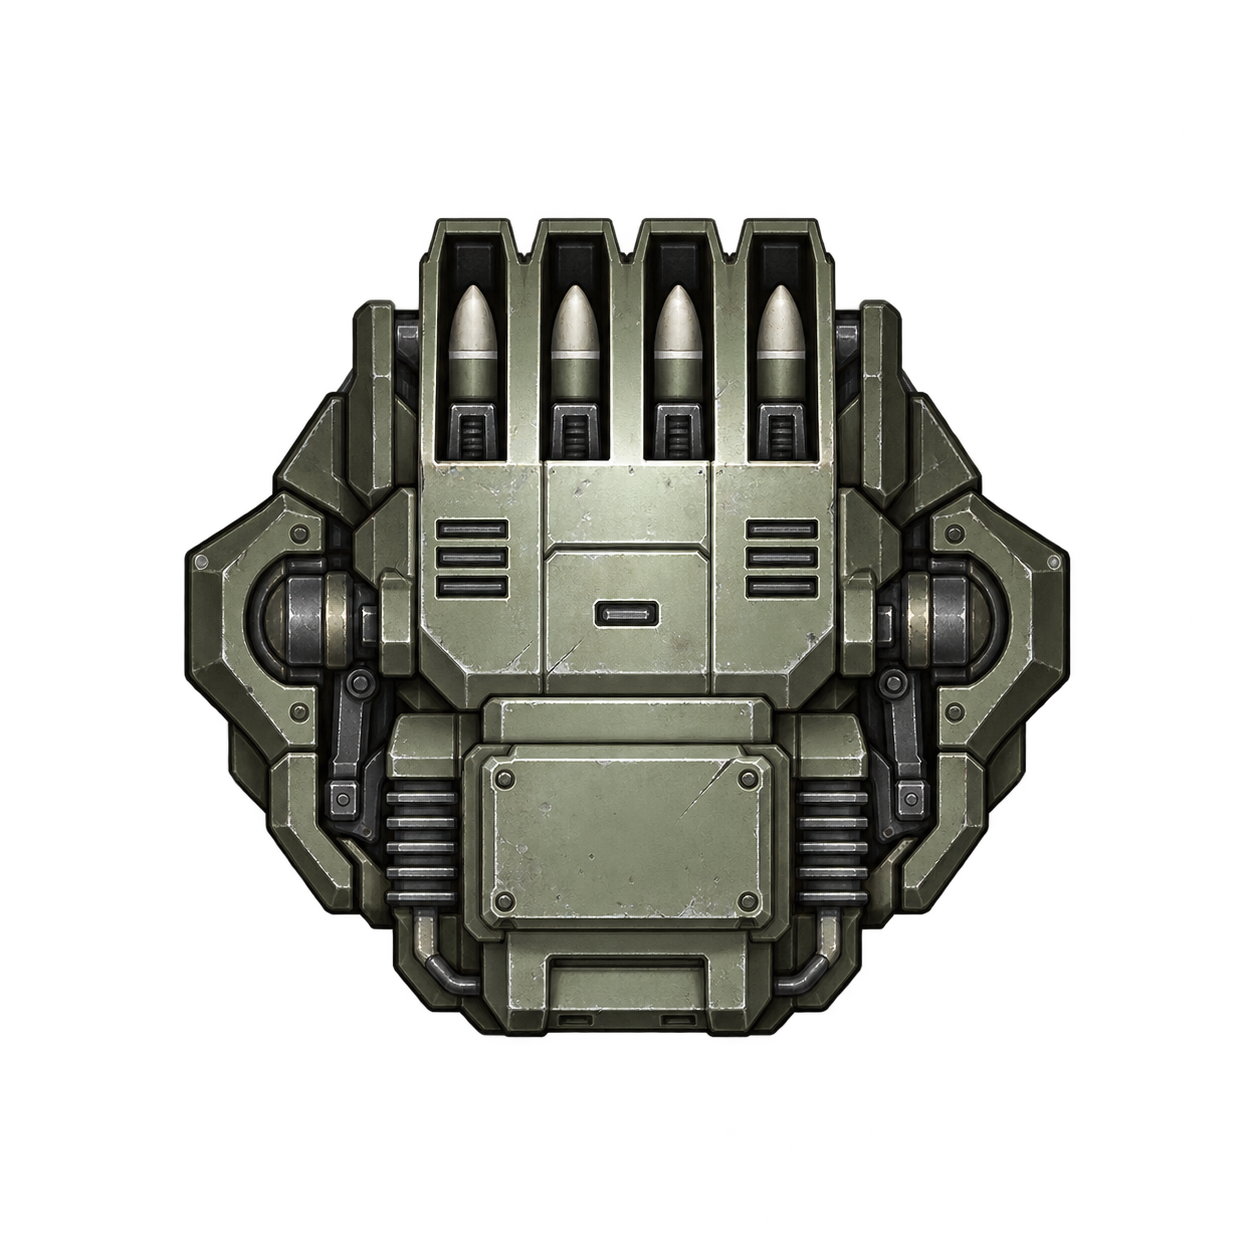
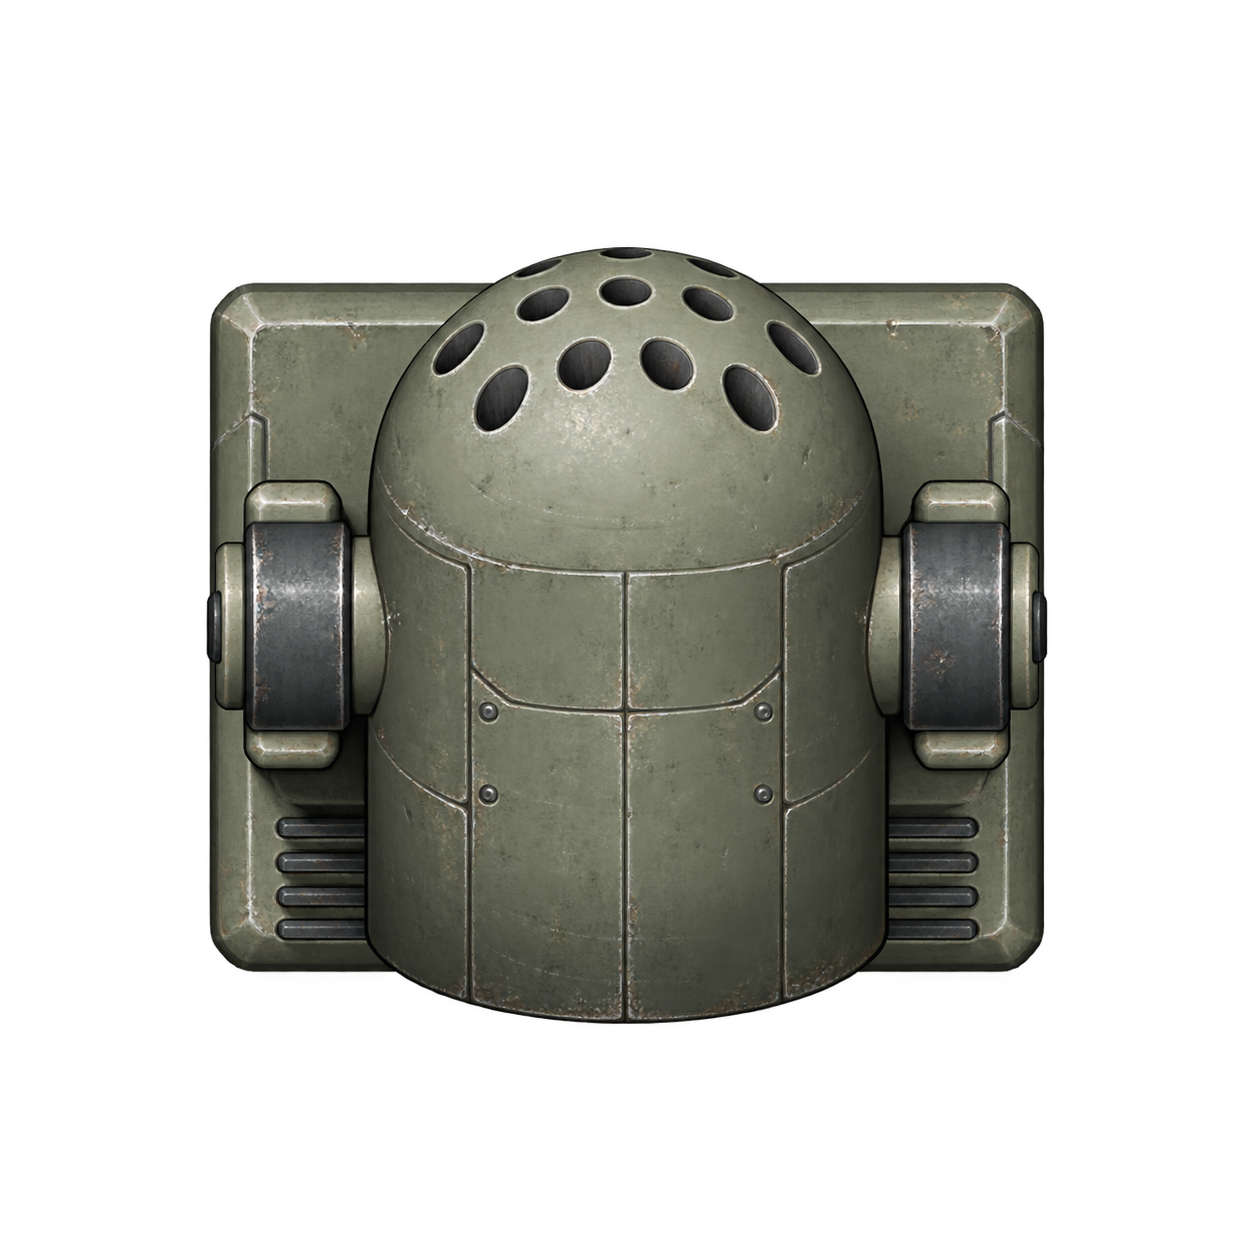
Reskin approved elongated Locust AA geometry

diff --git a/art-source/defences/locust-aa/render-reskin-guide.py b/art-source/defences/locust-aa/render-reskin-guide.py
@@ -1,0 +1,29 @@
+"""Render the approved Blender assembly as one centered overhead edit target.
+
+Run in an isolated background Blender process. The approved .blend is read only.
+"""
+from pathlib import Path
+import bpy
+
+HERE = Path(__file__).resolve().parent
+bpy.ops.wm.open_mainfile(filepath=str(HERE / 'proposals/microphone-head/proposal.blend'))
+scene = bpy.context.scene
+root = bpy.data.objects['Overhead presentation root']
+for obj in scene.objects:
+    if obj.type != 'MESH':
+        continue
+    ancestor = obj
+    while ancestor.parent:
+        ancestor = ancestor.parent
+    obj.hide_render = ancestor != root
+root.location = (0, 0, 0)
+scene.camera.location = (0, 0, 12)
+scene.camera.rotation_euler = (0, 0, 0)
+scene.camera.data.ortho_scale = 3.0
+scene.render.resolution_x = 1024
+scene.render.resolution_y = 1024
+scene.render.resolution_percentage = 100
+scene.render.film_transparent = True
+scene.render.filepath = str(HERE / 'locust-reskin-guide.png')
+bpy.ops.render.render(write_still=True)
+print({'guide': scene.render.filepath, 'yaw_pivot_px': [512,512], 'pitch_degrees': 20})

diff --git a/art-source/defences/locust-aa/README.md b/art-source/defences/locust-aa/README.md
@@ -1,29 +1,41 @@
 # Locust ground AA art
 
-First art pass for a ground emplacement based on the vanilla Locust SRM
-Launcher. The intended family also includes the Swarmer SRM Launcher and
+Geometry-guided art for a ground emplacement inspired by the vanilla Locust
+SRM Launcher. The intended family also includes the Swarmer SRM Launcher and
 Proximity Charge Launcher; those two art passes are still pending.
 
 ## Deliverables
 
-- `locust-mount.master.png`: built-in ImageGen up-res interpretation of the
-  vanilla turret, retaining the upward-facing four-channel launcher identity.
+- `locust-mount.master.png`: unmodified built-in ImageGen reskin of the approved
+  elongated microphone-shaped head, its forward launch tubes, clipped side
+  trunnions and gimbal floor. Olive-gray armor, graphite bearings and restrained
+  panel detail use the vanilla sprite as a palette/style reference.
+- `locust-reskin-guide.png`: centered 1024-square overhead render of the approved
+  Blender assembly. `render-reskin-guide.py` derives it from the retained
+  `proposals/microphone-head/proposal.blend` without changing that scene.
 - `ground-base.master.png`: separate stationary foundation, up-resed from the
   project's Ridgewatch base. This is new ground-emplacement art, not a vanilla
   Locust layer.
 - `layers/locust-mount.png` and `layers/ground-base.png`: 512 x 512 RGBA exports,
-  both with the authored assembly pivot at (256, 256). Draw base then mount;
-  only the mount rotates. Forward is image up.
+  both with the authored assembly pivot at (256, 256). The mount includes the
+  rotating gimbal floor; the ground base is a separate stationary foundation.
+  Draw base then mount; only the mount rotates. Forward is image up. Pitch is
+  baked into this sprite at 20 degrees, not independently animated.
 - `review.png`: 1920 x 1080 art contact sheet at 100% scale, with the original,
-  independent layers, assembled view and 64/96/128-pixel size studies.
+  approved guide, reskin and 64/128/192-pixel canvas size studies. These sizes
+  show readability, not an established runtime footprint.
 - The two `*.prompt.txt` files preserve the exact built-in ImageGen prompts.
+  The mount prompt uses, in order, the overhead guide, the approved three-view
+  `proposals/microphone-head/shape-views.png`, and `sources/locust_turret.png`.
 
 These are art-review assets. No runtime catalog entries, combat stats, world
 footprint, destruction states or firing origins are authored by this pass.
-ImageGen resolves low-resolution pixels into new detail; it does not recover
-an original high-resolution source. The silhouette is recognizably derived
-from Locust but is not pixel-exact, and vanilla muzzle offsets must be checked
-against this art when the weapon is integrated.
+The approved Blender assembly owns the shape; vanilla art supplies only the
+material reference. This is a new interpretation, not recovered original
+high-resolution detail. Visual comparison retains the elongated silhouette,
+visible bore arrangement and gimbal connections, but ImageGen is not a
+pixel-exact geometry renderer. Author firing origins against this assembly
+when the weapon is integrated; vanilla offsets do not define its new bores.
 
 ## Reproduce the exports
 
@@ -33,12 +45,18 @@ From the repository root in PowerShell:
 ./art-source/defences/locust-aa/export.ps1
 ```
 
+To regenerate the input guide first:
+
+```powershell
+& 'C:/Program Files/Blender Foundation/Blender 5.2/blender.exe' --background --factory-startup --python art-source/defences/locust-aa/render-reskin-guide.py
+```
+
 The exporter retains both complete master frames and downsamples them without
 trimming, recentering, recoloring or painting. It checks square dimensions,
 real transparency, nonempty visible bounds and clear visible borders, then
 writes `export-metadata.json` and the review sheet. Generated masters arrived
-at 1254 x 1254 despite the requested 1024 square canvas. The base has faint
-alpha=1 residue in some empty pixels; alpha is preserved, and the boundary
+at 1254 x 1254 despite the requested 1024 square canvas. The masters have faint
+alpha residue in some empty pixels; alpha is preserved, and the boundary
 check rejects alpha >= 8. Visible bounds are measured at alpha >= 32.
 
 ## Source provenance and remaining family
@@ -52,7 +70,7 @@ the project's existing foundation used as the second edit target.
 
 | Planned ground weapon | Vanilla weapon id | Turret sprite under `graphics/weapons/` | Art state |
 | --- | --- | --- | --- |
-| Locust SRM Launcher | `locust` | `locust_turret.png` | First up-res pass retained here |
+| Locust SRM Launcher | `locust` | `locust_turret.png` | Approved elongated geometry reskinned; art review |
 | Swarmer SRM Launcher | `swarmer` | `swarmer_srm_launcher_turret_base.png` | Pending |
 | Proximity Charge Launcher | `phasecl` | `phase_charge_launcher_turret_base.png` | Pending |
 

diff --git a/art-source/defences/locust-aa/proposals/microphone-head/README.md b/art-source/defences/locust-aa/proposals/microphone-head/README.md
@@ -1,14 +1,15 @@
-# Proposed Locust microphone-shaped launcher
+# Approved Locust microphone-shaped launcher
 
-Geometry proposal awaiting the user's shape review. Do not use ImageGen on this
-proposal until that review: the user explicitly requested seeing the shape first.
+The user approved this elongated geometry for ImageGen reskinning. The resulting
+overhead guide and painted mount live two directories above, with the exact
+reskin prompt. This retained scene remains the geometry source of truth.
 
 The elongated head is a cylindrical rocket magazine with a convex rounded cap,
 like a microphone head. Eighteen small launch bores run parallel along one
 forward axis, shown elevated 20 degrees. Their openings follow the cap; they
-do not radiate from a sphere. The head is 1.70 model units long and 1.24 wide,
-70% longer than the previous seated proposal. Extra length is split fore and
-aft of the side axle (local Y -0.78 to +0.92) rather than shifting the whole
+do not radiate from a sphere. The head is 1.70 model units long and 1.24 wide.
+Extra length is split fore and aft of the side axle (local Y -0.78 to +0.92)
+rather than shifting the whole
 head forward. The bores extend into the longer magazine to one rear plane.
 
 The floor and both cheek supports form one yaw assembly over a circular
@@ -22,14 +23,14 @@ cover's height at each whole degree in this range. The cover check uses its
 height as an infinite plane, conservative relative to its actual footprint.
 These are sampled shape checks, not a full mechanical collision certification.
 
-Port count, elevation and proportions are proposal choices, not gameplay data.
+Port count, elevation and proportions are art choices, not gameplay data.
 Views show the overhead footprint, an angled assembly and the side axle.
 
 `build.py` runs in an isolated background Blender process with factory startup.
 It writes `proposal.blend` and the transparent 1920x1080 `shape-views.png` at
 100% render scale. `review.ps1` adds labels at the same resolution without
-resizing. No ImageGen call is part of this proposal's workflow. The existing
-finished Locust mount and ground base have not been replaced.
+resizing. No ImageGen call is part of this geometry script. The separate reskin
+workflow replaces the earlier mount art while retaining the ground foundation.
 
 ```powershell
 & 'C:/Program Files/Blender Foundation/Blender 5.2/blender.exe' --background --factory-startup --python art-source/defences/locust-aa/proposals/microphone-head/build.py
